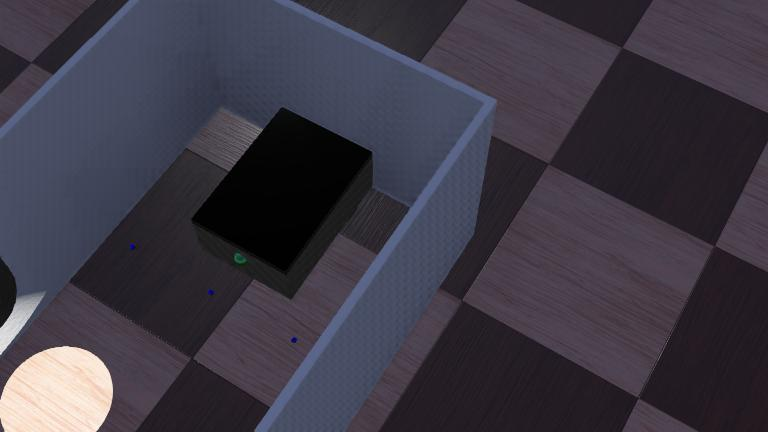
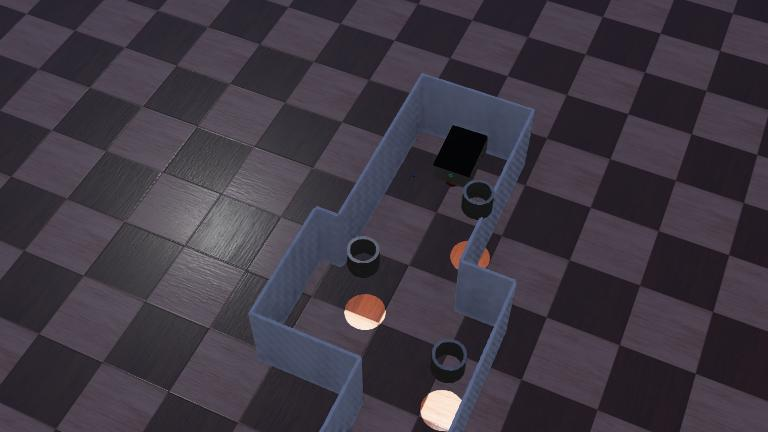
Identify and generate obstacles in the grid

diff --git a/controllers/wall-e-controller/wall-e-controller.py b/controllers/wall-e-controller/wall-e-controller.py
@@ -100,7 +100,6 @@ if __name__== "__main__":
 
     # Main loop:
     # - perform simulation steps until Webots is stopping the controller
-    move_forward(0.02)
     no_obstacles_found = True
     while robot.step(timestep) != -1:
 
@@ -114,46 +113,62 @@ if __name__== "__main__":
         ls_left_value = left_light_sensor.getValue()
         ls_center_value = center_light_sensor.getValue()
 
-        #
-
         # Analyzing data from distance sensors
         if ds_front_value > 9.25:
             print("Wall In Front: ", ds_front_value)
-            if grid[initial_node[0] + 2, initial_node[1]] == 0:
-                grid[initial_node[0] + 2, initial_node[1]] = -1
-                no_obstacles_found = False
+            if initial_node[0] + 2 <= GRID_WIDTH:
+                if grid[initial_node[0] + 2, initial_node[1]] == 0:
+                    grid[initial_node[0] + 2, initial_node[1]] = -1
+                    no_obstacles_found = False
 
         if ds_right_value > 9.25:
             print("Wall Right: ", ds_right_value)
-            if grid[initial_node[0], initial_node[1] + 2] == 0:
-                grid[initial_node[0], initial_node[1] + 2] = -1
-                no_obstacles_found = False
+            if initial_node[0] + 2 <= GRID_WIDTH and initial_node[1] + 1 <= GRID_HEIGHT:
+                if grid[initial_node[0] + 2, initial_node[1] + 1] == 0:
+                    grid[initial_node[0] + 2, initial_node[1] + 1] = -1
+                    no_obstacles_found = False
 
         if ds_left_value > 9.25:
             print("Wall Left: ", ds_left_value)
-            if grid[initial_node[0], initial_node[1] - 2] == 0:
-                grid[initial_node[0], initial_node[1] - 2] = -1
-                no_obstacles_found = False
+            if initial_node[0] + 2 <= GRID_WIDTH and initial_node[1] - 1 >= 0:
+                if grid[initial_node[0] + 2, initial_node[1] - 1] == 0:
+                    grid[initial_node[0] + 2, initial_node[1] - 1] = -1
+                    no_obstacles_found = False
+
 
         # Analyzing data from light sensors
         if ls_center_value == 10:
             print("Light in front: ", ls_center_value)
-            if grid[initial_node[0] + 2, initial_node[1]] == 0:
-                grid[initial_node[0] + 2, initial_node[1]] = -1
-                no_obstacles_found = False
+            if initial_node[0] + 3 <= GRID_WIDTH and initial_node[1] - 1 >= 0 and initial_node[1] + 1 <= GRID_HEIGHT:
+                if grid[initial_node[0] + 2, initial_node[1]] == 0:
+                    grid[initial_node[0] + 2, initial_node[1]] = -2
+                    grid[initial_node[0] + 2, initial_node[1] - 1] = -1
+                    grid[initial_node[0] + 2, initial_node[1] + 1] = -1
+                    grid[initial_node[0] + 1, initial_node[1]] = -1
+                    grid[initial_node[0] + 3, initial_node[1]] = -1
+                    no_obstacles_found = False
 
         if ls_right_value == 10:
             print("Light right: ", ls_right_value)
-            if grid[initial_node[0], initial_node[1] + 2] == 0:
-                grid[initial_node[0], initial_node[1] + 2] = -1
-                no_obstacles_found = False
+            if initial_node[0] + 3 <= GRID_WIDTH and initial_node[1] + 2 <= GRID_HEIGHT:
+                if grid[initial_node[0] + 2, initial_node[1] + 1] == 0:
+                    grid[initial_node[0] + 2, initial_node[1] + 1] = -2
+                    grid[initial_node[0] + 2, initial_node[1]] = -1
+                    grid[initial_node[0] + 2, initial_node[1] + 2] = -1
+                    grid[initial_node[0] + 1, initial_node[1] + 1] = -1
+                    grid[initial_node[0] + 3, initial_node[1] + 1] = -1
+                    no_obstacles_found = False
 
         if ls_left_value == 10:
             print("Light Left: ", ls_left_value)
-            if grid[initial_node[0], initial_node[1] - 2] == 0:
-                grid[initial_node[0], initial_node[1] - 2] = -1
-                no_obstacles_found = False
-
+            if initial_node[0] + 3 <= GRID_WIDTH and initial_node[1] - 2 >= 0:
+                if grid[initial_node[0] + 2, initial_node[1] - 1] == 0:
+                    grid[initial_node[0] + 2, initial_node[1] - 1] = -2
+                    grid[initial_node[0] + 2, initial_node[1] - 2] = -1
+                    grid[initial_node[0] + 2, initial_node[1]] = -1
+                    grid[initial_node[0] + 1, initial_node[1] - 1] = -1
+                    grid[initial_node[0] + 3, initial_node[1] - 1] = -1
+                    no_obstacles_found = False
 
         if no_obstacles_found:
             move_forward(0.02)
@@ -162,6 +177,16 @@ if __name__== "__main__":
         else:
             a_star.clean_dictionaries()
             path = a_star.search_for_optimal_path(initial_node, final_node, grid)
-            no_obstacles_found = True
-            print(grid.shape)
-            print(path)
+            next_node = path[-2]
+
+            # Compare to move
+            if initial_node[0] - next_node[0] == 0:
+                if initial_node[1] - next_node[1] > 0:
+                    print("Move up (y - 1)")
+                else:
+                    print("Move down (y + 1)")
+            else:
+                print("Move Forward")
+                move_forward(0.02)
+            # no_obstacles_found = True
+            break
